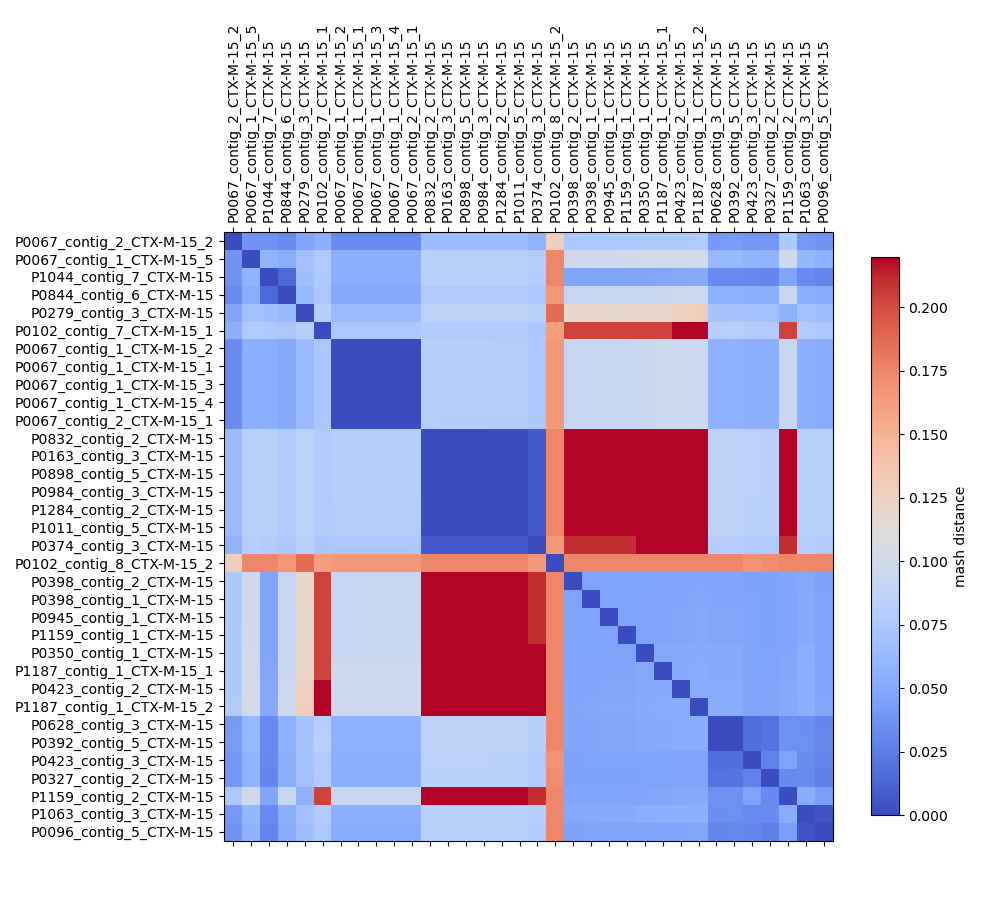
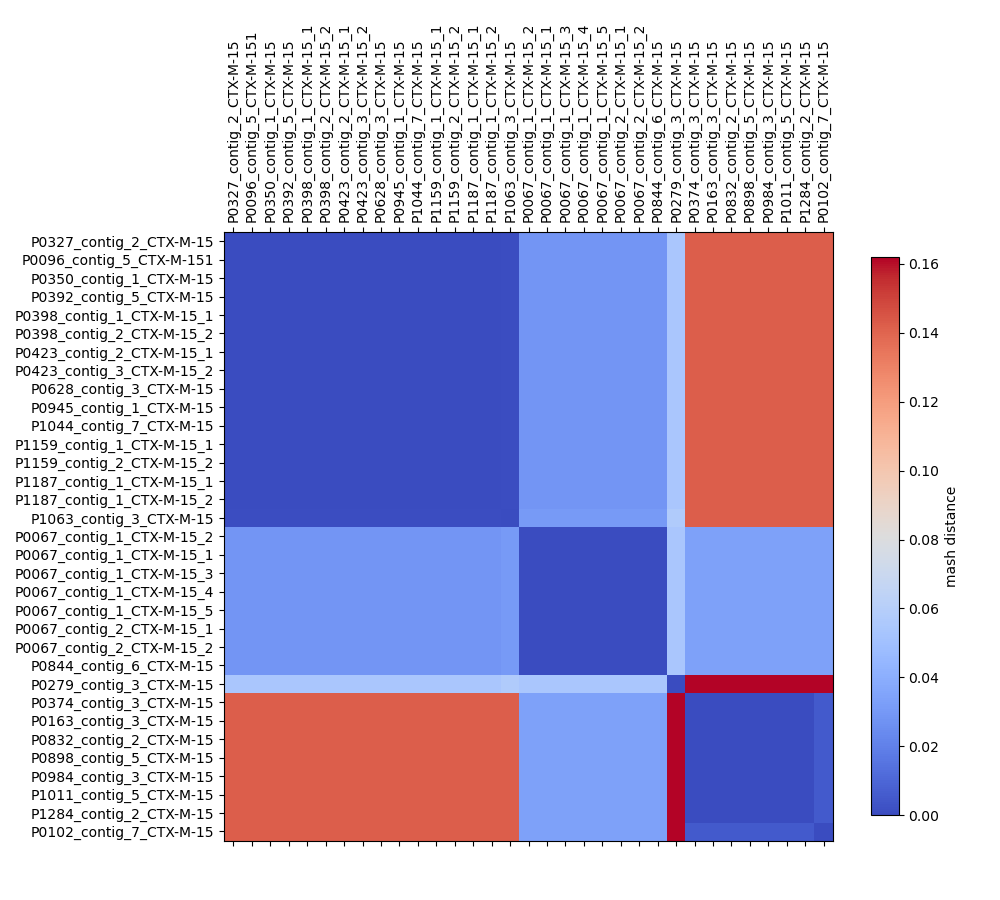
chore: updated readme

diff --git a/analysis.py b/analysis.py
@@ -30,7 +30,7 @@ D = D.pivot(index="si", columns="sj", values="mash_dist")
 
 # perform hierarchical clustering
 D_sq = squareform(D)
-Z = linkage(D_sq, method="ward")
+Z = linkage(D_sq, method="complete")
 
 # plot dendrogram
 fig, ax = plt.subplots(1, 1, figsize=(10, 10))

diff --git a/README.md b/README.md
@@ -34,7 +34,7 @@ We use [MASH](https://github.com/marbl/Mash) to evaluate an alignment-free dista
 
 ![mash distance](./figs/mash_dist_mat.png)
 
-The script `analysis.py` also generates a linear representation for the pangenome graph. Blocks are represented in different colors, with blocks occurring only once being represented in gray. The first four letters of the block name are reported for every block. The final block `ABVFBXCQSS` is present in all isolates. Moving left from it we find first a split in the three main clades.
+The script `analysis.py` also generates a linear representation for the pangenome graph. Blocks are represented in different colors, with blocks occurring only once being represented in white. The first four letters of the block name are reported for every block, with red names corresponding to blocks that are reverse-complemented. The final block `ABVFBXCQSS` is present in all isolates. Moving left from it we find first a split in the three main clades.
 
 ![pangenome graph](./figs/pangraph.png)
 
